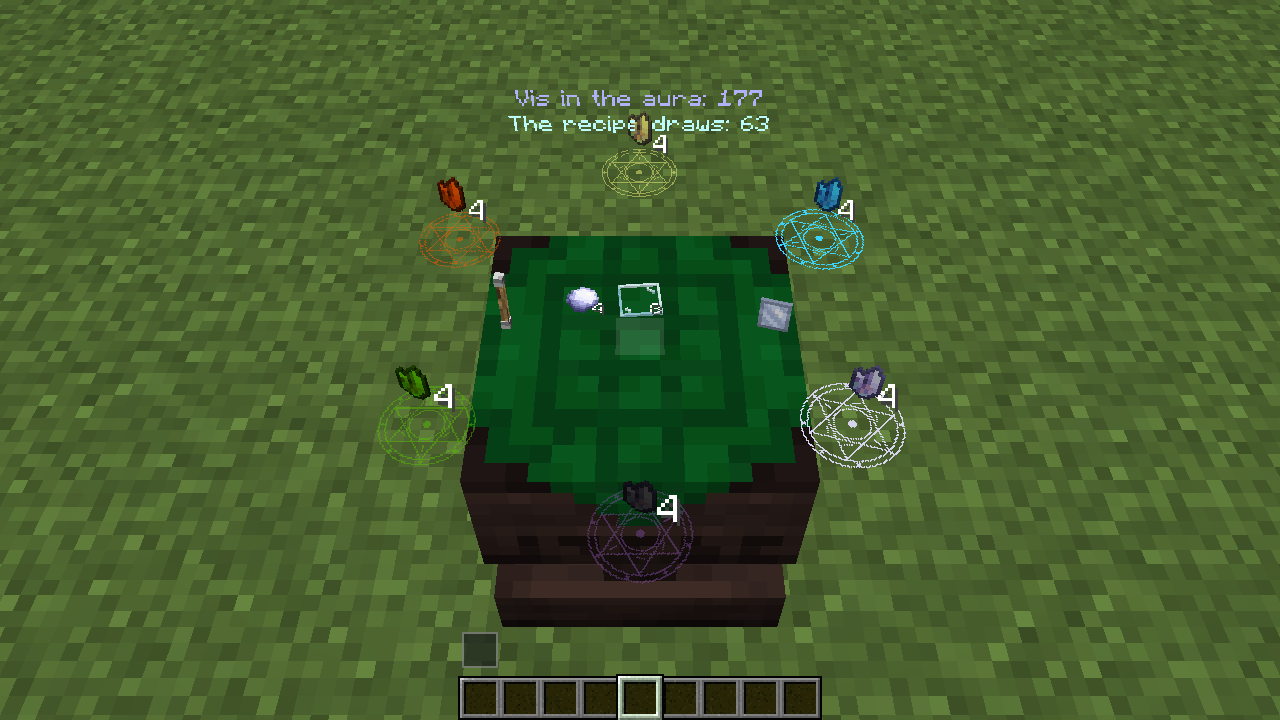
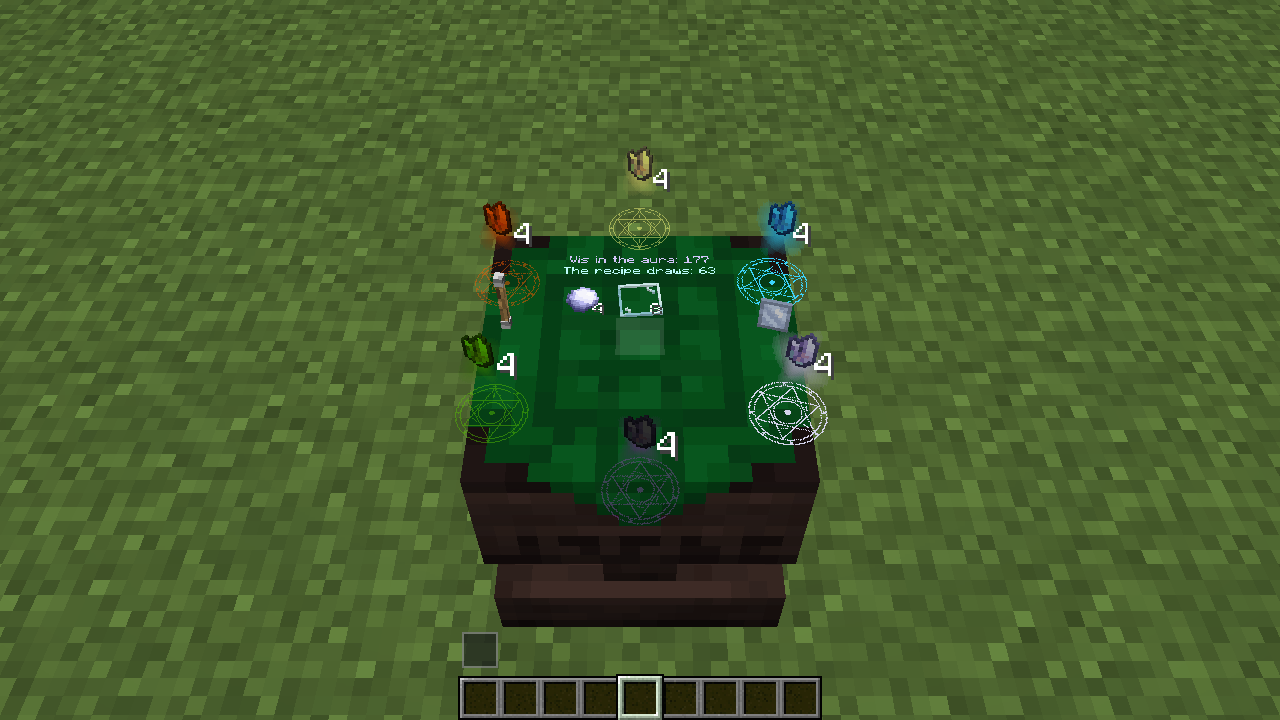
README: the new research table and workbench, fresh screenshots
Claude-Session: https://claude.ai/code/session_01BQEUemARYQYQZPmNhrfX44

diff --git a/README.md b/README.md
@@ -7,25 +7,35 @@ the [Diegesis](https://modrinth.com/mod/diegesis-api) library in the spirit of
 
 - **The arcane workbench**, as Hands-On Vanilla's crafting table. The eleven cells of its top are used as drawn: the 3x3 grid
   in the middle, the wand on the left strip, the result hovering over the right one. The six primal crystals float in a
-  ring round the table, clear of the grid, in the screen's places; under each glows a sigil (after Hands-On Vanilla's
-  enchanting table) in its primal's colour, flaring and turning while the recipe on the grid burns that crystal. Over the
-  far edge stands the vis in the aura and what the recipe costs, red when the aura cannot pay it. Taking the result crafts
-  through Thaumaturge's own workbench menu: arcane and vanilla recipes, research gates, wand and crystal payment.
-- **The research table** (either half opens it; like a furnace it is always worked from its front, the side that puts the inkwell in the far left corner, the sheet in the middle of the whole table). The scribing tools go in where Thaumaturge draws its own inkwell and quill, the note lies in front. With
-  a note in, its puzzle lies open on the table on parchment: Thaumaturge's hex grid, the aspects written in, the lines of the
-  chains that connect. The aspects you know hang over the far edge as a panel of icons (five by five, paged as in the screen:
-  the wheel or the arrows). Click one to take it up, click a blank hex to write it in, click a written one to rub it out.
-  Right click puts an aspect into the mixing tray beside the panel, whose button combines the two (shift-click on a compound
-  fills the tray with its parts, with the research for it); the copy button appears for a finished note when you can copy
-  it. The book on the table opens the guide to mixtures in the air beside it, as Hands-On Vanilla's crafting table shows
-  its recipe book.
+  ring just over the workbench's edges, each in a soft glow of its primal's colour; under each glows a sigil (after
+  Hands-On Vanilla's enchanting table), flaring and turning while the recipe on the grid burns that crystal. The vis in the
+  aura and what the recipe costs are written on the workbench's top, red when the aura cannot pay. Shift-clicking from the
+  inventory puts a wand in the wand's place and a crystal in its primal's, anything else in the grid. Taking the result
+  crafts through Thaumaturge's own workbench menu: arcane and vanilla recipes, research gates, wand and crystal payment.
+- **The research table** (either half opens it; like a furnace it is always worked from its front, the side that puts the
+  inkwell in the far left corner). You stand before it as at a desk:
+  - **The note is the parchment in the middle.** With no note, a pale sheet shows where one goes. On the open sheet lie
+    Thaumaturge's hex grid, the aspects written in and the lines of the chains that connect. Take an unfinished note by the
+    wax seal in its corner, clear of the hexes.
+  - **The aspects are vials in the drawer** under the left of the tabletop, which slides out when you open the table: one vial
+    per aspect you know, filled with its colour by how much of it you have, its sign on the cork (four by five, the arrows on
+    the drawer's front page through them). Click a vial to take its aspect (a few sparks of its colour follow the cursor),
+    click a blank hex to write it in, click a written one to rub it out.
+  - **Finished, the note rolls up** into Thaumaturge's scroll and a wax seal drops onto it; click the scroll to take it.
+  - **The mixing tray** stands in front of the inkwell, in brass: right click puts an aspect in it, its button combines the
+    two (shift-click on a compound fills it with its parts, with the research for it).
+  - **The guide to mixtures** is a recipe book as in Hands-On Vanilla, dressed as the Thaumonomicon. It lies shut on the right
+    of the table; a click opens it in the air over the table, its leaves turn, and each aspect sits on a small hexagon so it
+    stands out from the paper.
+  - Out of ink, the table says so in front of the parchment.
 - **Nothing replaced.** Sneaking + use keeps Thaumaturge's own screens. The items stay in the blocks' own inventories;
   the research table's actions call the table's own methods, so ink, costs, aids and copying are all Thaumaturge's.
-  While you work at the research table, Thaumaturge's renderer of it draws only its inkwell and quill (its papers and scroll give way to the sheet); at the workbench its wand display rests.
 
-| The arcane workbench | The research table | Its guide to mixtures |
-|---|---|---|
-| ![The arcane workbench](docs/workbench.png) | ![The research table](docs/research.png) | ![The guide](docs/research_book.png) |
+| The arcane workbench | The research table |
+|---|---|
+| ![The arcane workbench](docs/workbench.png) | ![The research table: the drawer of vials, the note, the mixing tray](docs/research.png) |
+| **The guide to mixtures** | **A finished note sealed** |
+| ![The guide to mixtures open over the table](docs/research_book.png) | ![The note rolled up and sealed](docs/sealing.gif) |
 
 ## Requirements
 
@@ -53,4 +63,5 @@ blocks keep their own screens. Tested with Thaumaturge 1.1.0 for 1.21.1.
 
 ## License
 
-MIT. The sigil texture comes from [Hands-On Vanilla](https://github.com/Pocky-l/handson-vanilla) (MIT, Pocky).
+MIT. The sigil texture and the recipe book's textures come from [Hands-On Vanilla](https://github.com/Pocky-l/handson-vanilla)
+(MIT, Pocky; see `THIRD_PARTY_NOTICES.txt`).
